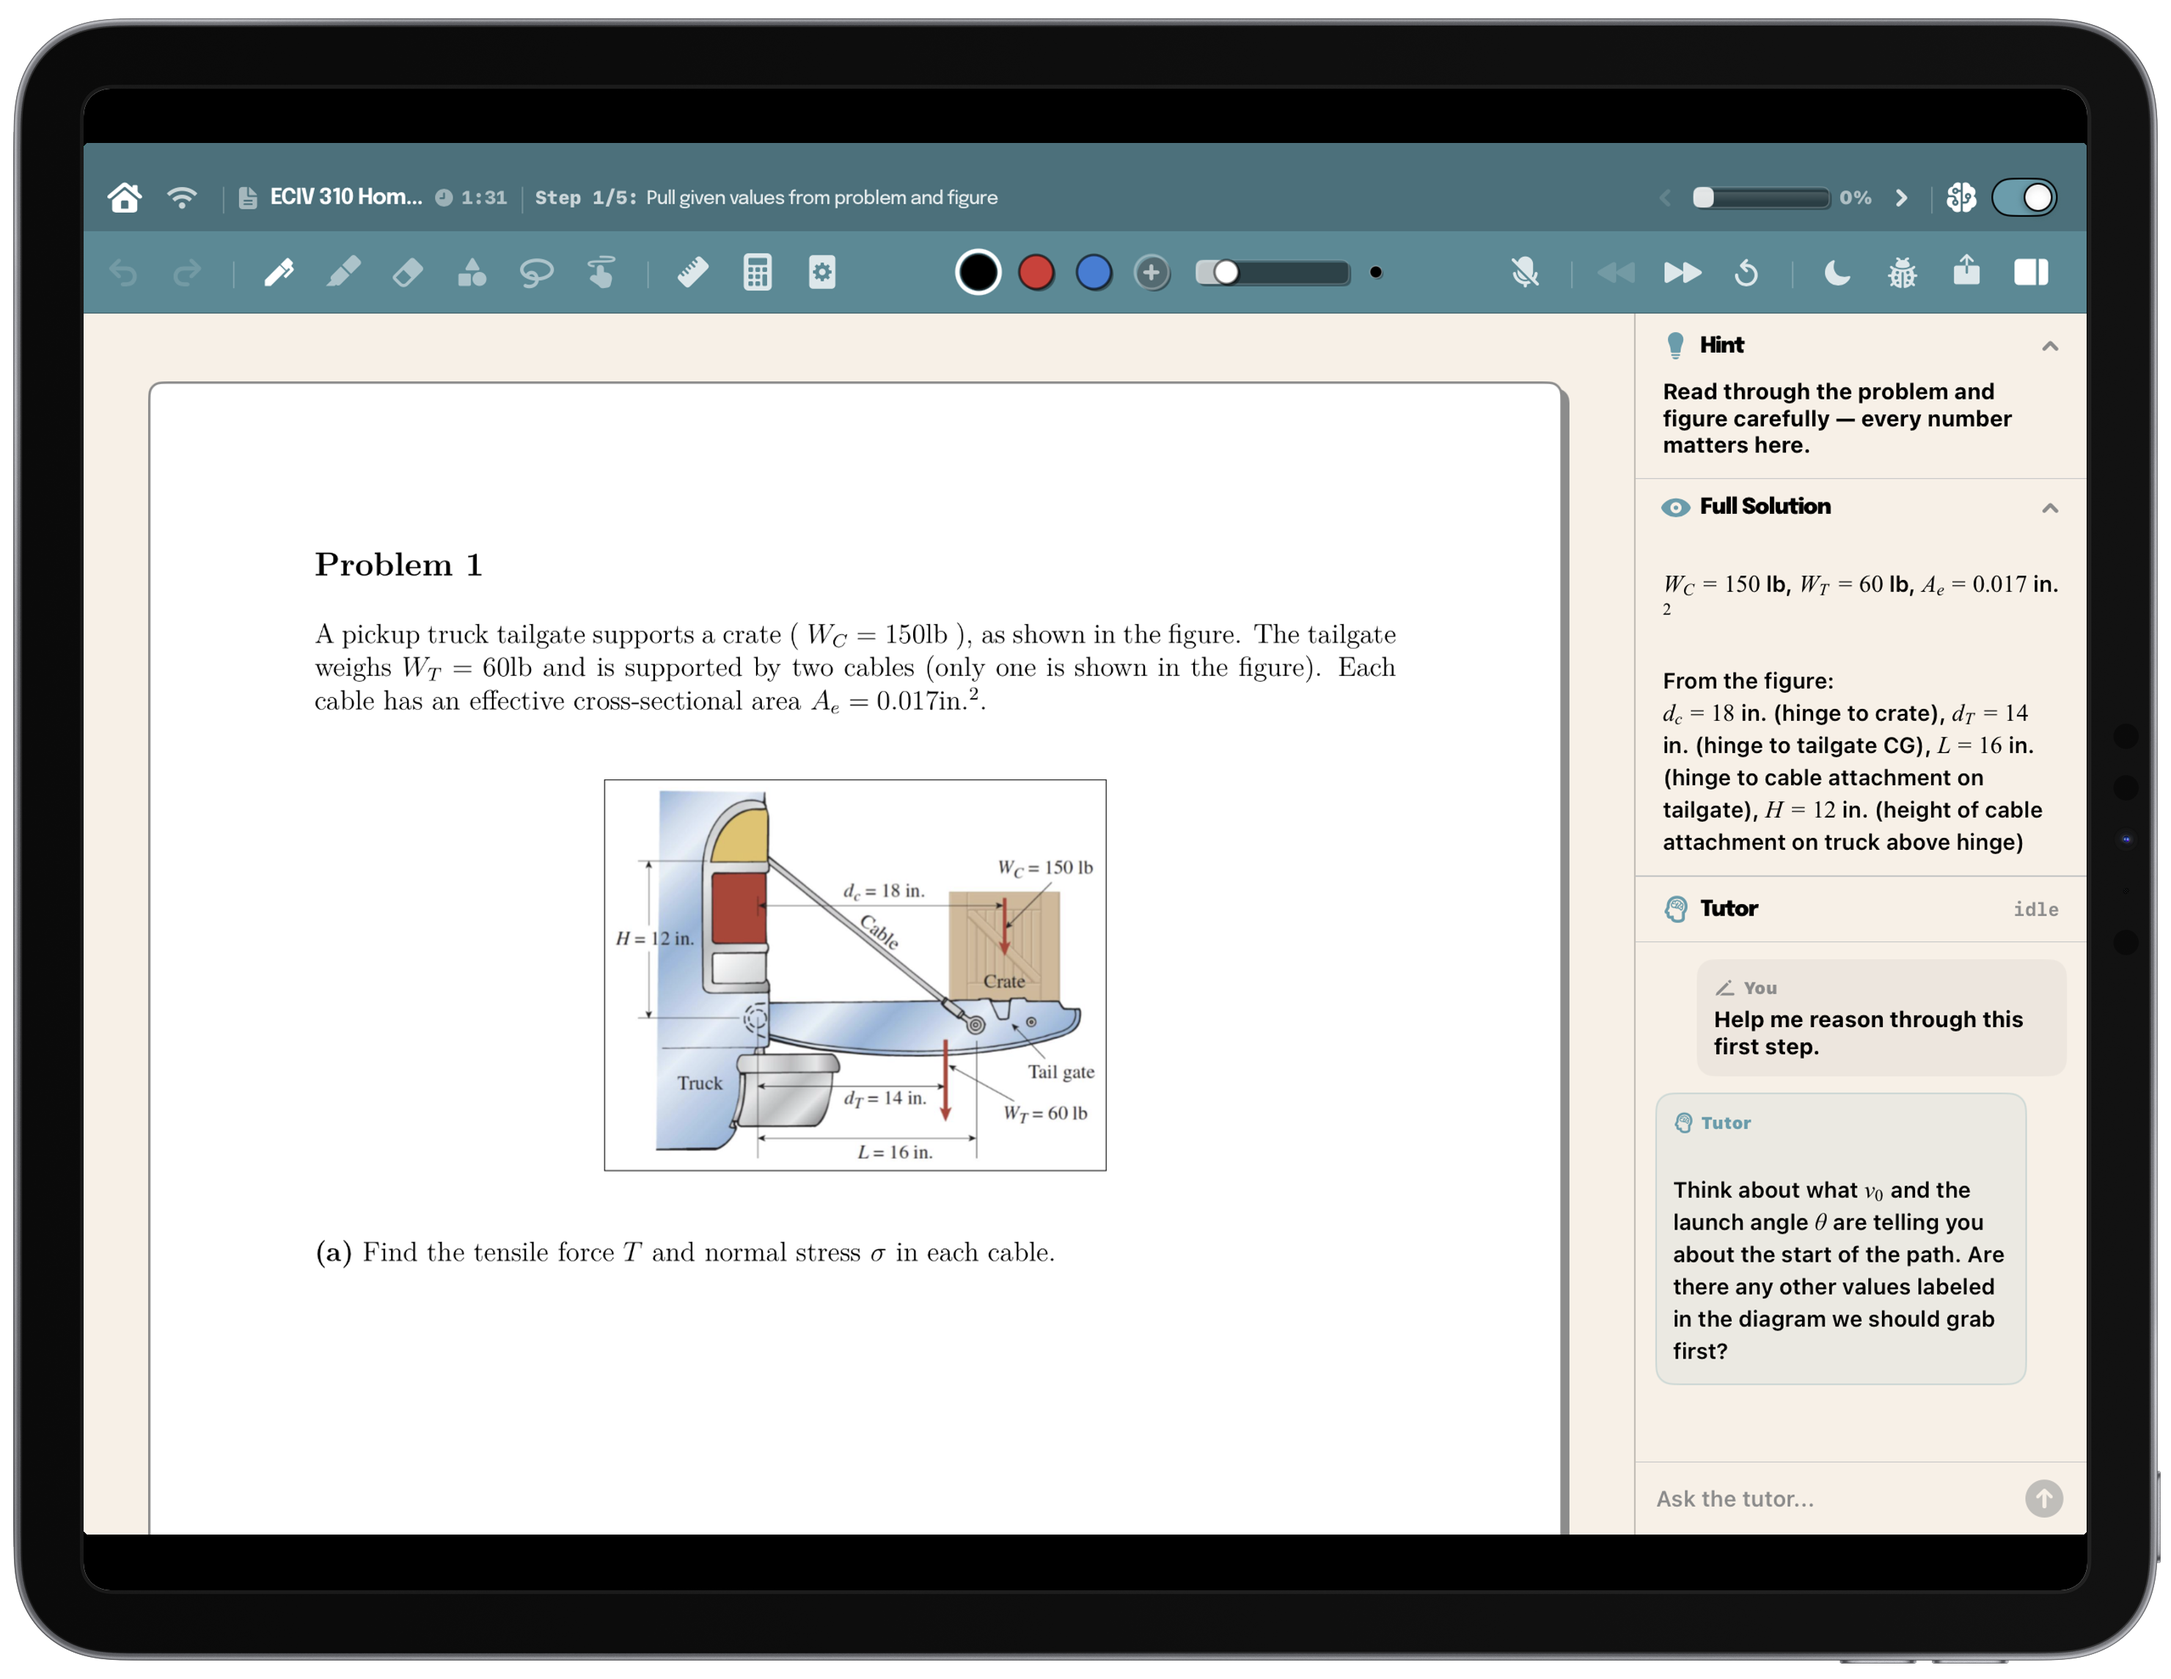
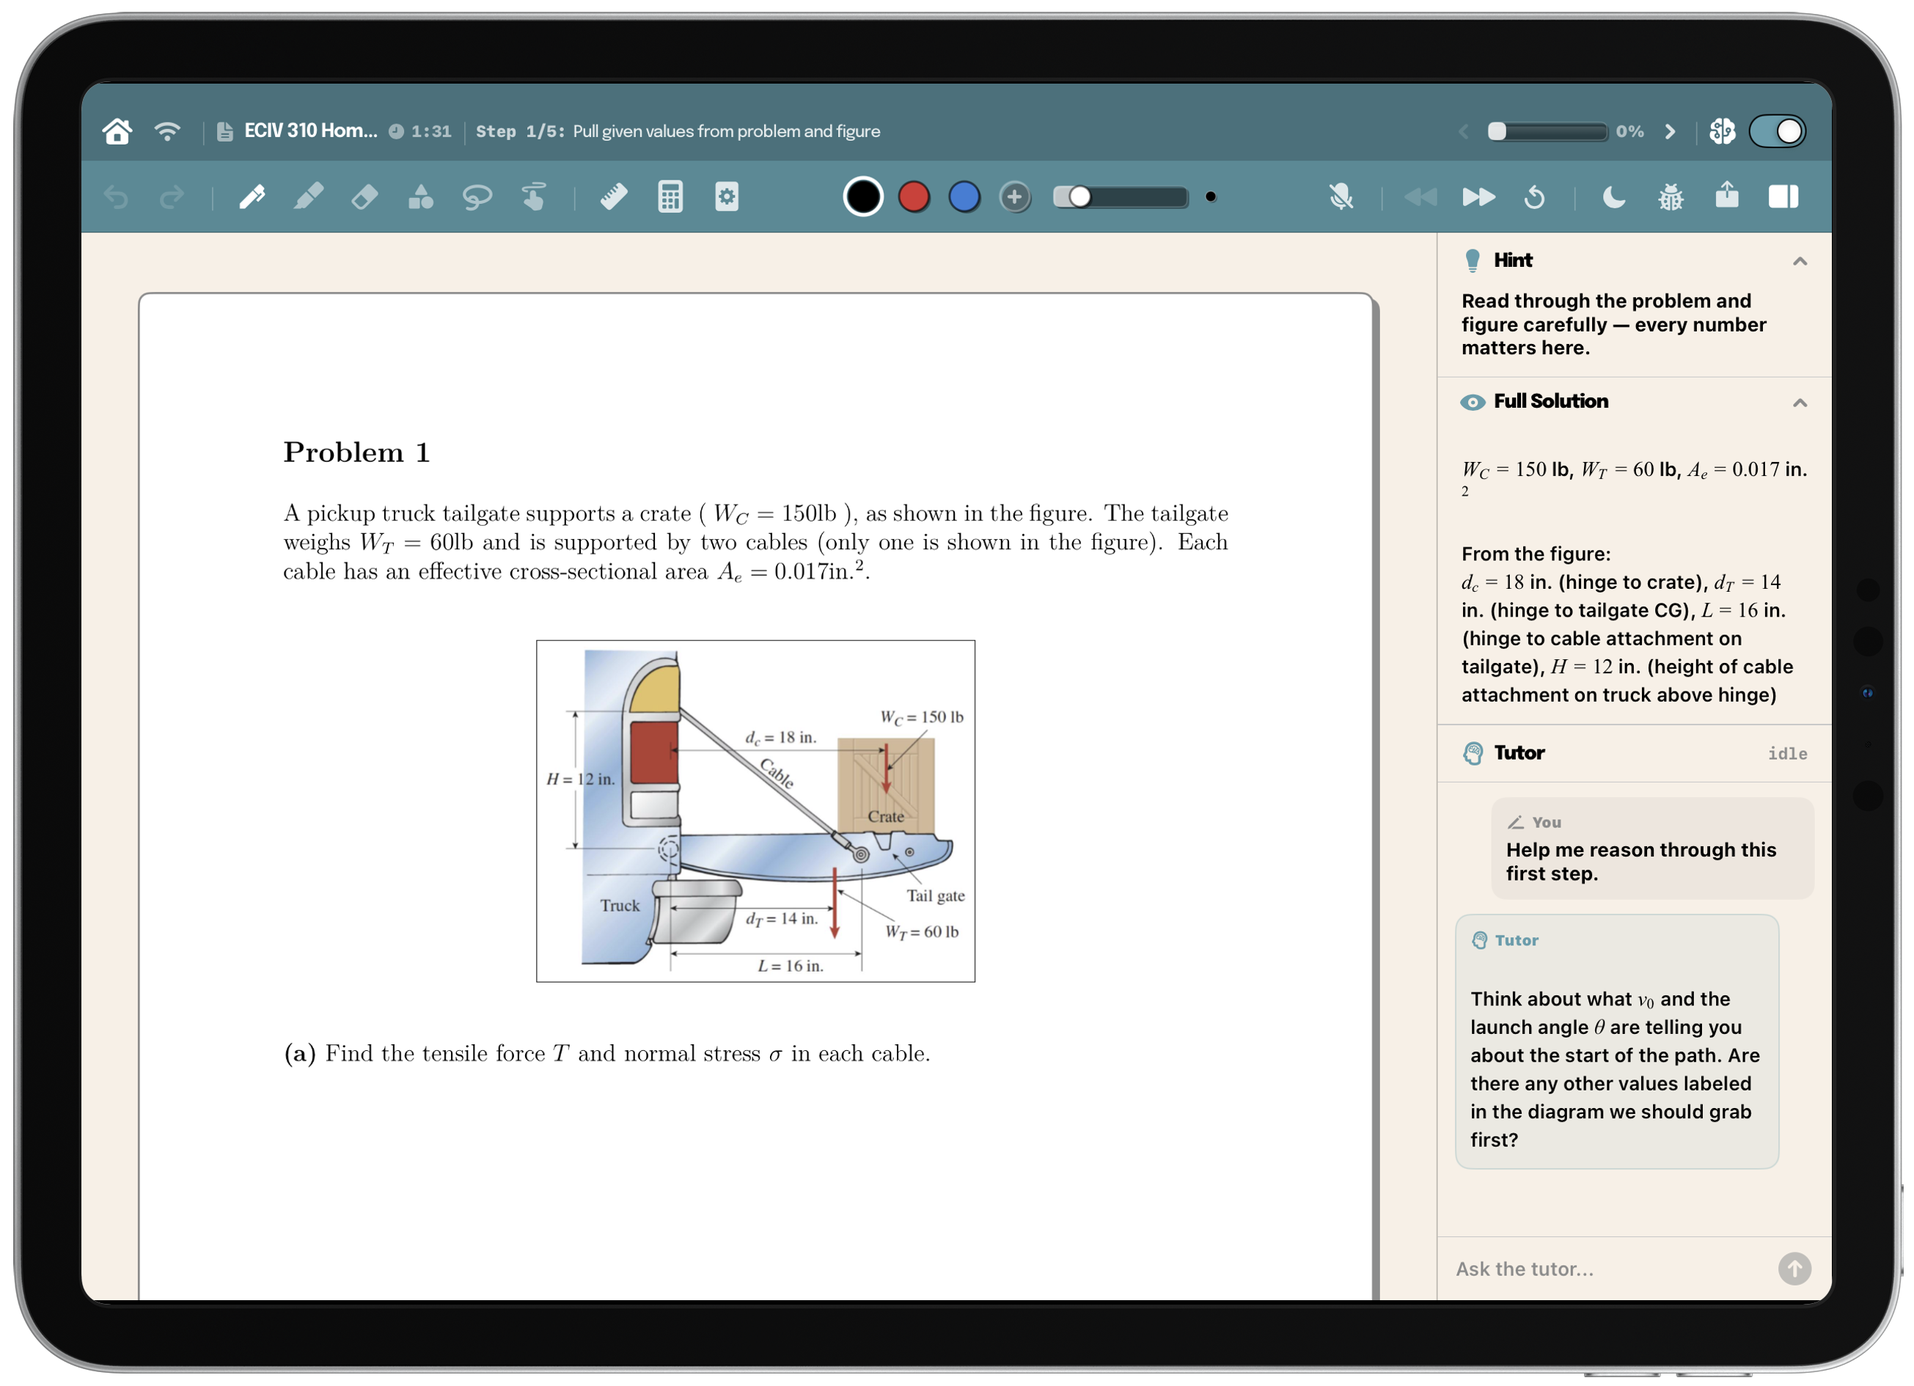
feat: switch to iPad Pro 11-inch mockup for hero image

diff --git a/Reef-Web/src/app/globals.css b/Reef-Web/src/app/globals.css
@@ -273,13 +273,11 @@ footer.framer-1fiw38h {
 
 .hero-image-wrapper {
   width: 100%;
-  max-width: 1320px;
+  max-width: 900px;
   margin: 40px auto 0;
-  padding-bottom: 14px;
-  padding-right: 14px;
   position: relative;
   z-index: 1;
-  aspect-ratio: 2960 / 2290;
+  aspect-ratio: 2610 / 1890;
   perspective: 1200px;
 }
 
@@ -763,8 +761,6 @@ html, body {
 
   .hero-image-wrapper {
     margin-top: 24px;
-    padding-bottom: 10px;
-    padding-right: 10px;
   }
 
   .hero-image {
